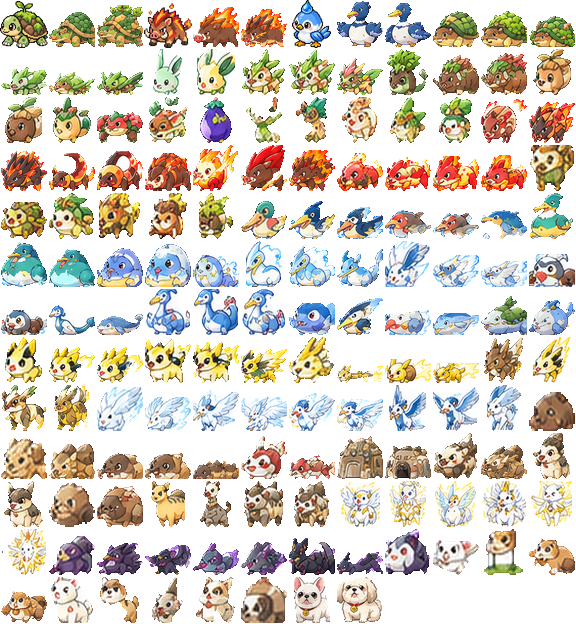
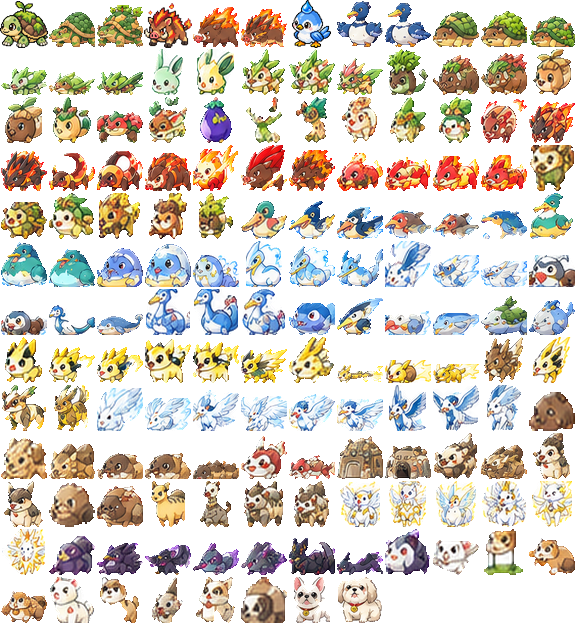
モンスターの描画品質：高解像度端末では Scale2x×2（4倍）で拡大してから滑らかに描く。白い体の37匹の背景の四角い残りを除去（凸包∩インク近傍）。かぜタイプのアイコンを描き直し
Claude-Session: https://claude.ai/code/session_018VDSYCPciSbMvR8kKaJDnr

diff --git a/js/mon.js b/js/mon.js
@@ -28,11 +28,50 @@ const Mon = (() => {
     const r = meta[id]; if (!r || !ready) return false;
     return drawFrom(ctx, img, r, x, y, scale, flip);
   }
+  // ---- 高解像度端末向け：Scale2x（EPX）を2回かけた4倍画像をキャッシュして描く ----
+  //   48px素材を6倍などに単純拡大すると階段状に荒れるため、斜め線をなめらかにした192pxを用意し、
+  //   そこから滑らか補間で縮小・拡大する。
+  const hqCache = new Map();
+  function scale2x(src, w, h) {
+    const dst = new Uint32Array(w * h * 4), W2 = w * 2;
+    for (let y = 0; y < h; y++) for (let x = 0; x < w; x++) {
+      const P = src[y * w + x];
+      const A = y > 0 ? src[(y - 1) * w + x] : P, D = y < h - 1 ? src[(y + 1) * w + x] : P;
+      const C = x > 0 ? src[y * w + x - 1] : P, B = x < w - 1 ? src[y * w + x + 1] : P;
+      let p1 = P, p2 = P, p3 = P, p4 = P;
+      if (C === A && C !== D && A !== B) p1 = A;
+      if (A === B && A !== C && B !== D) p2 = B;
+      if (D === C && D !== B && C !== A) p3 = C;
+      if (B === D && B !== A && D !== C) p4 = D;
+      const o = (y * 2) * W2 + x * 2;
+      dst[o] = p1; dst[o + 1] = p2; dst[o + W2] = p3; dst[o + W2 + 1] = p4;
+    }
+    return dst;
+  }
+  function hqImage(image, r, key) {
+    if (hqCache.has(key)) return hqCache.get(key);
+    const [sx, sy, sw, sh] = r;
+    const c0 = document.createElement('canvas'); c0.width = sw; c0.height = sh;
+    const g0 = c0.getContext('2d'); g0.drawImage(image, sx, sy, sw, sh, 0, 0, sw, sh);
+    let px = new Uint32Array(g0.getImageData(0, 0, sw, sh).data.buffer), w = sw, h = sh;
+    for (let i = 0; i < 2; i++) { px = scale2x(px, w, h); w *= 2; h *= 2; }
+    const c = document.createElement('canvas'); c.width = w; c.height = h;
+    const id = c.getContext('2d').createImageData(w, h); new Uint8ClampedArray(px.buffer).forEach((v, i) => { id.data[i] = v; });
+    c.getContext('2d').putImageData(id, 0, 0);
+    hqCache.set(key, c);
+    return c;
+  }
   function drawFrom(ctx, image, r, x, y, scale, flip) {
     const [sx, sy, sw, sh] = r; const w = sw / S * scale, h = sh / S * scale;
-    ctx.save(); ctx.imageSmoothingEnabled = false;
-    if (flip) { ctx.translate(x + w, y); ctx.scale(-1, 1); ctx.drawImage(image, sx, sy, sw, sh, 0, 0, w, h); }
-    else ctx.drawImage(image, sx, sy, sw, sh, x, y, w, h);
+    ctx.save();
+    // 実描画が素材の2倍を超えるときだけ高解像度版を使う
+    const dpr = ctx.getTransform ? ctx.getTransform().a : 1;
+    const useHq = dpr * scale > 2;
+    let img = image, ssx = sx, ssy = sy, ssw = sw, ssh = sh;
+    if (useHq) { img = hqImage(image, r, `${image === bimg ? 'b' : 'f'}:${sx},${sy}`); ssx = 0; ssy = 0; ssw = sw * 4; ssh = sh * 4; ctx.imageSmoothingEnabled = true; ctx.imageSmoothingQuality = 'high'; }
+    else ctx.imageSmoothingEnabled = false;
+    if (flip) { ctx.translate(x + w, y); ctx.scale(-1, 1); ctx.drawImage(img, ssx, ssy, ssw, ssh, 0, 0, w, h); }
+    else ctx.drawImage(img, ssx, ssy, ssw, ssh, x, y, w, h);
     ctx.restore();
     return true;
   }

diff --git a/js/gfx.js b/js/gfx.js
@@ -246,7 +246,7 @@ const Gfx = (() => {
     'type_ほのお': ['   f    ', '  ff    ', '  fff f ', ' ffOff  ', ' fOOff  ', ' fOyOff ', '  fOOf  ', '   ff   '],
     'type_くさ':   ['      G ', '    GGg ', '   Ghhg ', '  Ghhgg ', ' GhhggG ', ' GhggG  ', 'GGGG    ', 'G       '],
     'type_でんき': ['    yy  ', '   yy   ', '  yy    ', ' yyyyy  ', '   yyy  ', '   yy   ', '  yy    ', '  y     '],
-    'type_かぜ':   ['  xxxx  ', ' x    x ', '      x ', '  xxxx  ', ' x      ', '        ', '  xxxxx ', '        '],
+    'type_かぜ':   ['  WWWW  ', ' W    W ', '      W ', 'WWWWWWW ', '        ', ' WWWWW  ', '      W ', '  WWWW  '],
     'type_じめん': ['        ', '   BB   ', '  BbbB  ', ' BbbbbB ', ' BbbjbB ', 'KBBBBBK ', 'KKKKKKK ', '        '],
     'type_ひかり': ['   y    ', '   y    ', '  yIy   ', 'yyIIIyy ', '  yIy   ', ' y y y  ', '   y    ', '        '],
     'type_やみ':   ['  nnn   ', ' nn  n  ', 'nn      ', 'nn      ', 'nn      ', ' nn  n  ', '  nnn   ', '        '],

diff --git a/tools/dex-sprites.py b/tools/dex-sprites.py
@@ -205,6 +205,9 @@ def keyout_pale(img):
     edge = set(np.unique(np.concatenate([lab[0], lab[-1], lab[:, 0], lab[:, -1]]))); edge.discard(0)
     mask &= ~np.isin(lab, list(edge))
     mask = ndimage.binary_closing(mask, iterations=2)
+    # 凸包のうち「インクから離れた部分」（角の背景）は削る：インクの近傍6pxだけ残す
+    mask &= ndimage.binary_dilation(ink, iterations=6)
+    mask = ndimage.binary_fill_holes(ndimage.binary_closing(mask, iterations=3))
     alpha = (mask * 255).astype(np.uint8)
     return Image.fromarray(np.dstack([a.astype(np.uint8), alpha]), 'RGBA')
 
